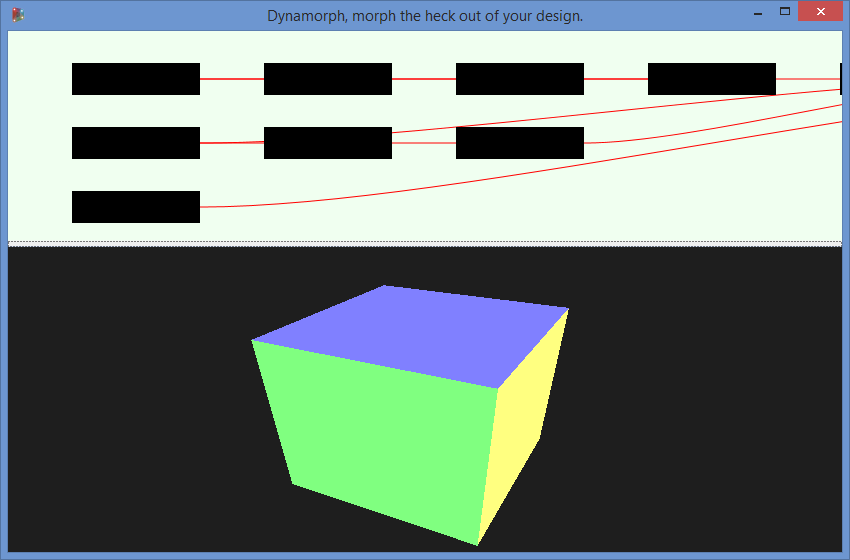
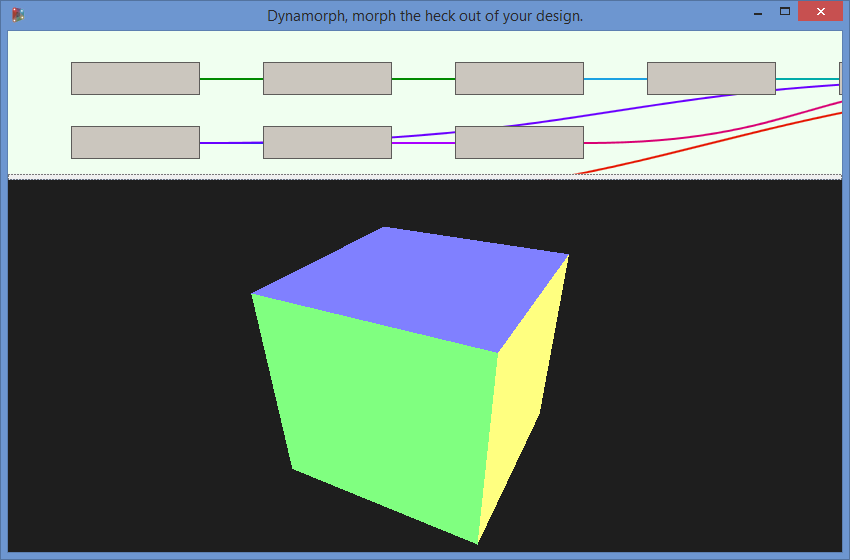
Added frozen Brush resources to draw edges in colors

Changed region(s): [[0.0, 0.0911, 1.0, 0.9107], [0.3365, 0.8196, 0.5812, 0.9714], [0.5506, 0.7286, 0.5812, 0.7893]]

diff --git a/src/Extensions/Dynamorph/Dynamorph.Net/DynamorphControl.xaml b/src/Extensions/Dynamorph/Dynamorph.Net/DynamorphControl.xaml
@@ -13,8 +13,10 @@
             <RowDefinition Height="3*"></RowDefinition>
         </Grid.RowDefinitions>
         <Canvas Name="GraphCanvas"
+                SnapsToDevicePixels="True"
                 Background="Honeydew"></Canvas>
-        <GridSplitter Grid.Row="1" Width="Auto"
+        <GridSplitter Grid.Row="1"
+                      Width="Auto"
                       Height="6"
                       HorizontalAlignment="Stretch" />
         <Border Name="VisualizerHostElement"

diff --git a/src/Extensions/Dynamorph/Dynamorph.Net/GraphVisualHost.cs b/src/Extensions/Dynamorph/Dynamorph.Net/GraphVisualHost.cs
@@ -7,6 +7,84 @@ using System.Windows.Media;
 
 namespace Dynamorph
 {
+    class GraphResources
+    {
+        internal enum BrushIndex
+        {
+            NodeFillColor,
+            NodeBorderColor,
+            NodeTextColor,
+
+            Lime,
+            Green,
+            Emerald,
+            Teal,
+            Cyan,
+            Cobalt,
+            Indigo,
+            Violet,
+            Pink,
+            Magenta,
+            Crimson,
+            Red,
+            Orange,
+            Amber,
+            Yellow,
+            Brown,
+            Olive,
+            Steel,
+            Mauve,
+            Taupe,
+        }
+
+        static GraphResources()
+        {
+            Brushes = new List<SolidColorBrush>();
+            Brushes.Add(new SolidColorBrush(Color.FromRgb(0xcb, 0xc6, 0xbe))); // NodeFillColor
+            Brushes.Add(new SolidColorBrush(Color.FromRgb(0x5e, 0x5c, 0x5a))); // NodeBorderColor
+            Brushes.Add(new SolidColorBrush(Color.FromRgb(0xff, 0xff, 0xff))); // NodeTextColor
+
+            Brushes.Add(new SolidColorBrush(Color.FromRgb(164, 196, 0)));   // Lime
+            Brushes.Add(new SolidColorBrush(Color.FromRgb(96, 169, 23)));   // Green
+            Brushes.Add(new SolidColorBrush(Color.FromRgb(0, 138, 0)));     // Emerald
+            Brushes.Add(new SolidColorBrush(Color.FromRgb(0, 171, 169)));   // Teal
+            Brushes.Add(new SolidColorBrush(Color.FromRgb(27, 161, 226)));  // Cyan
+            Brushes.Add(new SolidColorBrush(Color.FromRgb(0, 80, 239)));    // Cobalt
+            Brushes.Add(new SolidColorBrush(Color.FromRgb(106, 0, 255)));   // Indigo
+            Brushes.Add(new SolidColorBrush(Color.FromRgb(170, 0, 255)));   // Violet
+            Brushes.Add(new SolidColorBrush(Color.FromRgb(244, 114, 208))); // Pink
+            Brushes.Add(new SolidColorBrush(Color.FromRgb(216, 0, 115)));   // Magenta
+            Brushes.Add(new SolidColorBrush(Color.FromRgb(162, 0, 37)));    // Crimson
+            Brushes.Add(new SolidColorBrush(Color.FromRgb(229, 20, 0)));    // Red    
+            Brushes.Add(new SolidColorBrush(Color.FromRgb(250, 104, 0)));   // Orange
+            Brushes.Add(new SolidColorBrush(Color.FromRgb(240, 163, 10)));  // Amber
+            Brushes.Add(new SolidColorBrush(Color.FromRgb(227, 200, 0)));   // Yellow
+            Brushes.Add(new SolidColorBrush(Color.FromRgb(130, 90, 44)));   // Brown
+            Brushes.Add(new SolidColorBrush(Color.FromRgb(109, 135, 100))); // Olive
+            Brushes.Add(new SolidColorBrush(Color.FromRgb(100, 118, 135))); // Steel
+            Brushes.Add(new SolidColorBrush(Color.FromRgb(118, 96, 138)));  // Mauve
+            Brushes.Add(new SolidColorBrush(Color.FromRgb(135, 121, 78)));  // Taupe
+
+            Brushes.ForEach(b => b.Freeze());
+        }
+
+        internal static SolidColorBrush Brush(BrushIndex index)
+        {
+            return Brushes[(int)index];
+        }
+
+        internal static SolidColorBrush Pen(int index)
+        {
+            int start = ((int)BrushIndex.Lime);
+            int end = ((int)BrushIndex.Taupe);
+            int count = end - start + 1;
+
+            return Brushes[(start + (index % count))];
+        }
+
+        internal static readonly List<SolidColorBrush> Brushes;
+    }
+
     class GraphVisualHost : FrameworkElement
     {
         private SynthesizedGraph graph = null;
@@ -72,11 +150,12 @@ namespace Dynamorph
 
             foreach (var node in graph.Nodes)
             {
-                PathGeometry geom;
-                PathFigure figure;
-                BezierSegment s = new BezierSegment();
-
-                drawingContext.DrawRectangle(Brushes.Black, null, node.Rect);
+                var bi = GraphResources.BrushIndex.NodeBorderColor;
+                var fi = GraphResources.BrushIndex.NodeFillColor;
+                var bp = new Pen(GraphResources.Brush(bi), 1.0);
+                var rect = node.Rect;
+                rect.Offset(-0.5, -0.5);
+                drawingContext.DrawRectangle(GraphResources.Brush(fi), bp, rect);
             }
 
             drawingContext.Close(); // Done drawing, commit changes.
@@ -110,7 +189,8 @@ namespace Dynamorph
 
                 AddBezier(pathFigure, startPoints[index], endPoints[index]);
                 pathGeometry.Figures.Add(pathFigure);
-                drawingContext.DrawGeometry(null, new Pen(Brushes.Red, 1.0), pathGeometry);
+                var pb = GraphResources.Pen(index);
+                drawingContext.DrawGeometry(null, new Pen(pb, 2.0), pathGeometry);
             }
 
             drawingContext.Close();
@@ -118,7 +198,7 @@ namespace Dynamorph
 
         private void AddBezier(PathFigure figure, Point start, Point end)
         {
-            var offset = ((end.X - start.X) * 0.25);
+            var offset = ((end.X - start.X) * 0.5);
             figure.StartPoint = start;
 
             BezierSegment bezierSegment = new BezierSegment(

diff --git a/src/Extensions/Dynamorph/README.md b/src/Extensions/Dynamorph/README.md
@@ -42,5 +42,5 @@ Dynamorph, morph the heck out of your design.
 ## Screenshot Of The Day ##
 This is the latest screenshot of Dynamorph. It will be updated as and when there is any visible change to Dynamorph to reflect the latest development.
 
-#### Nodes are edges are rendered now! :) ####
+#### Nodes and edges are now colorful! :) ####
 ![Image](https://raw.githubusercontent.com/Benglin/Dynamo/Recharge_Ben/src/Extensions/Dynamorph/dynamorph-screen.png)
